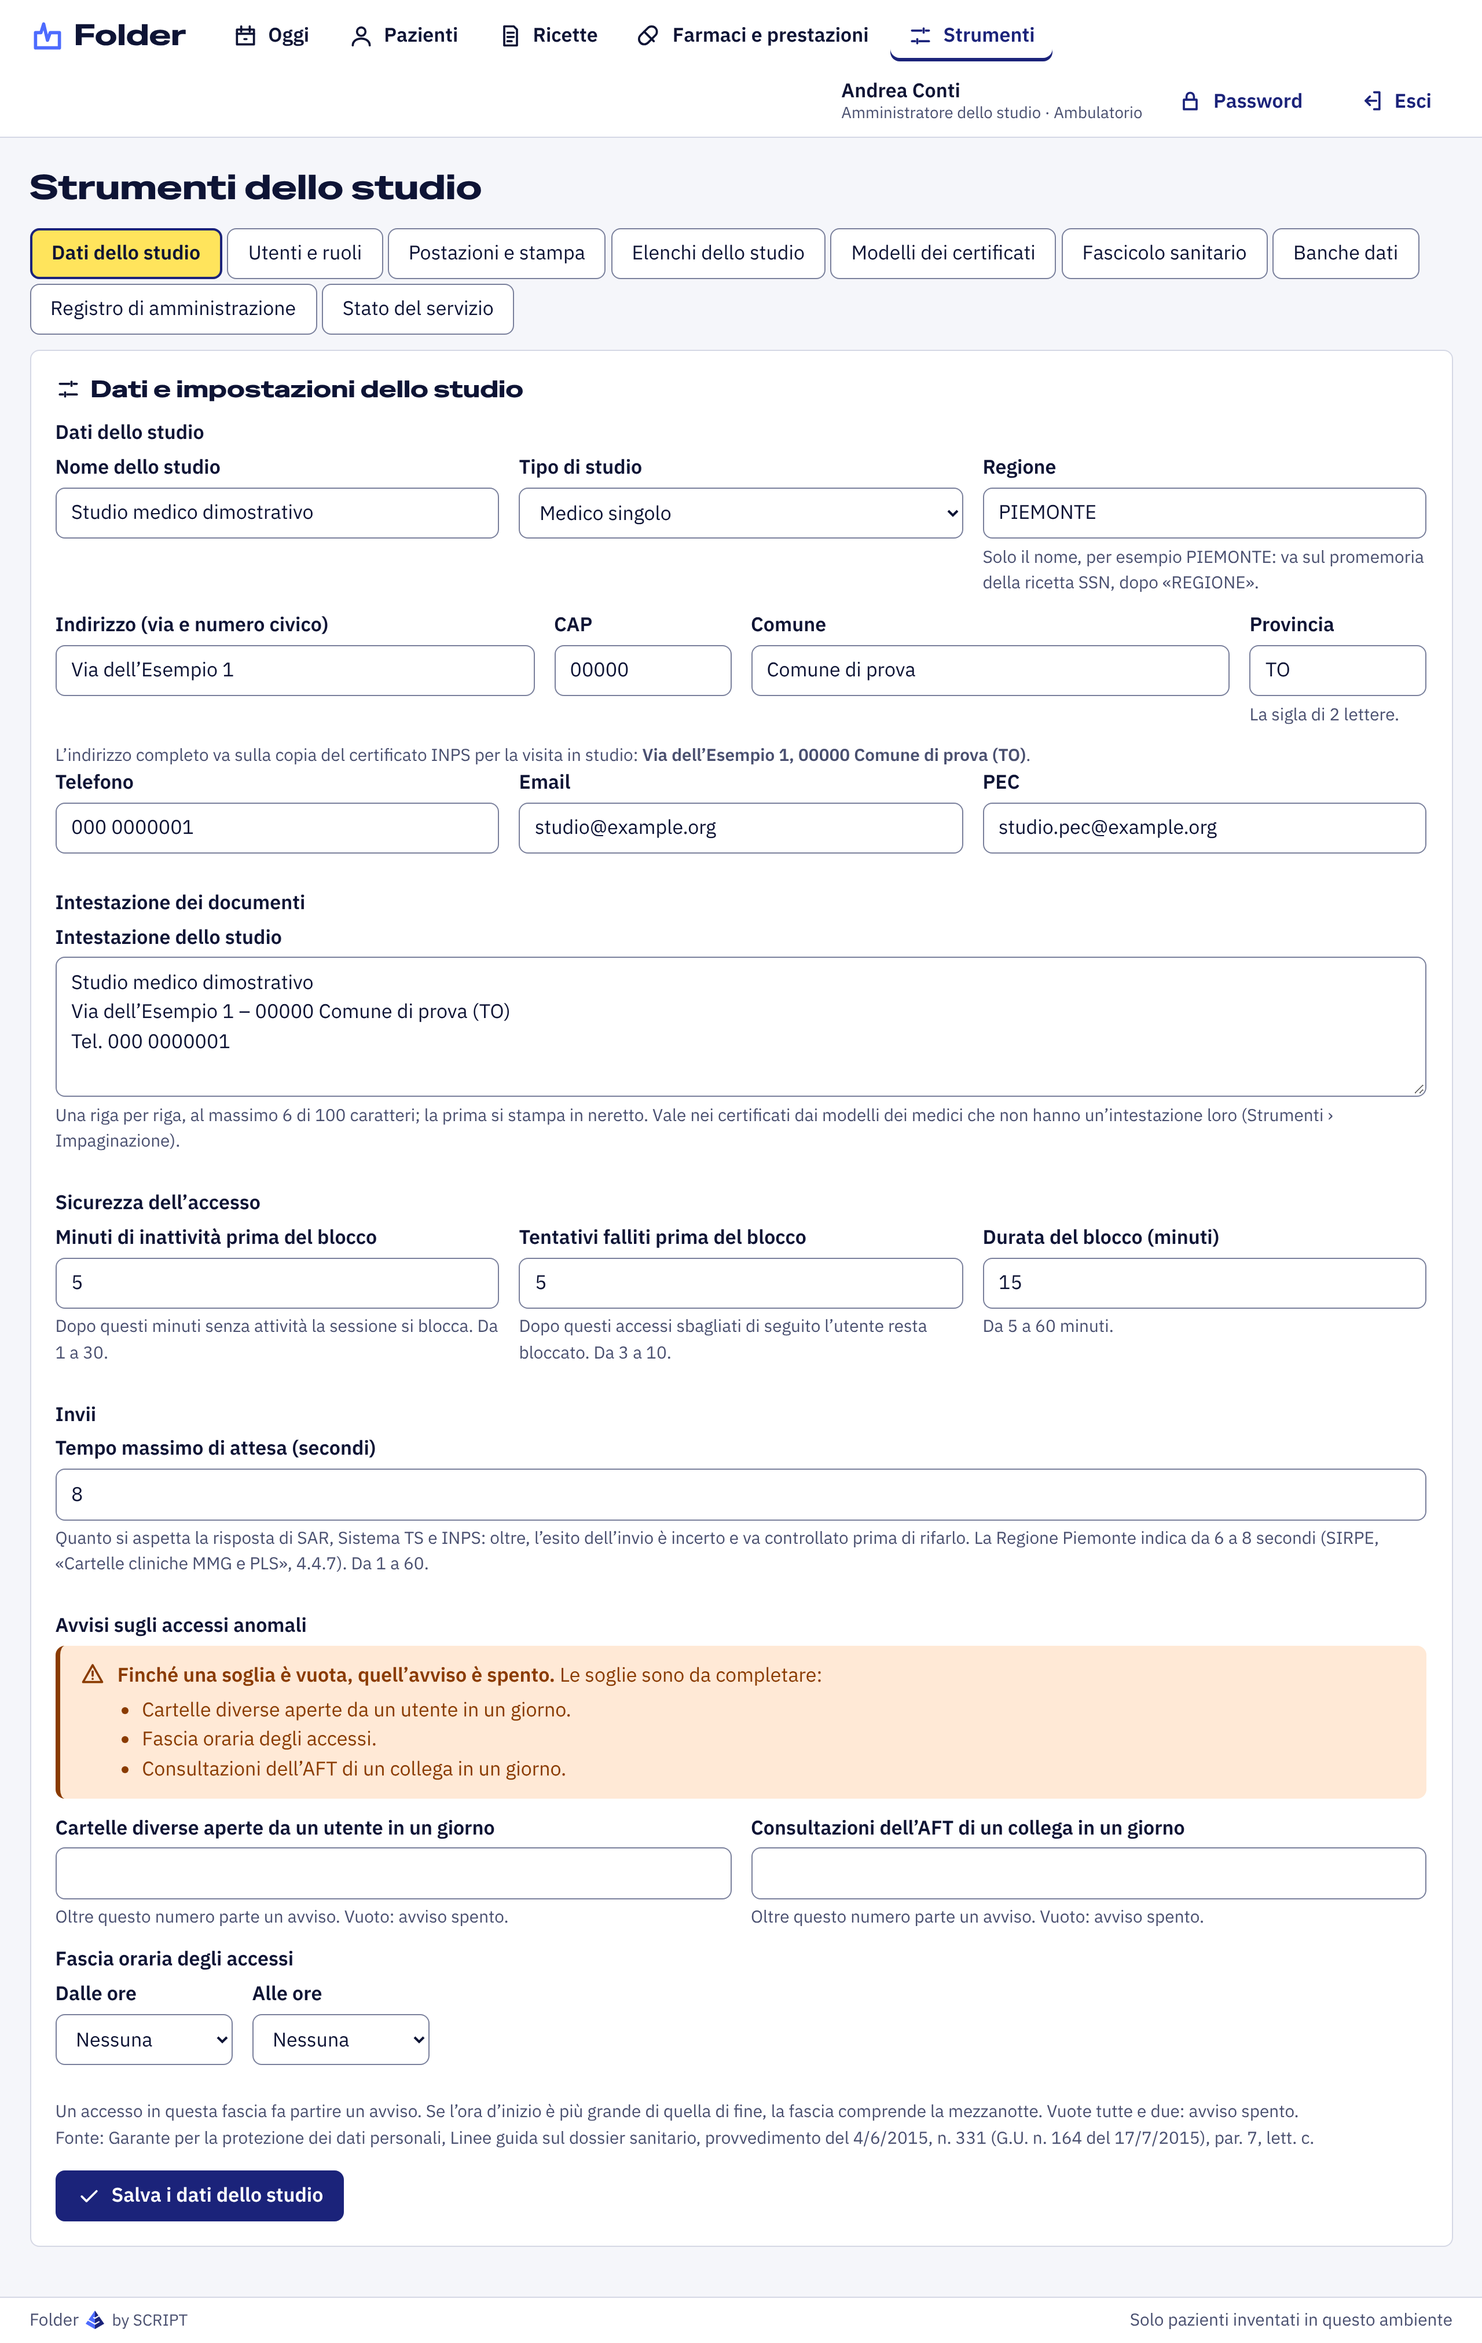
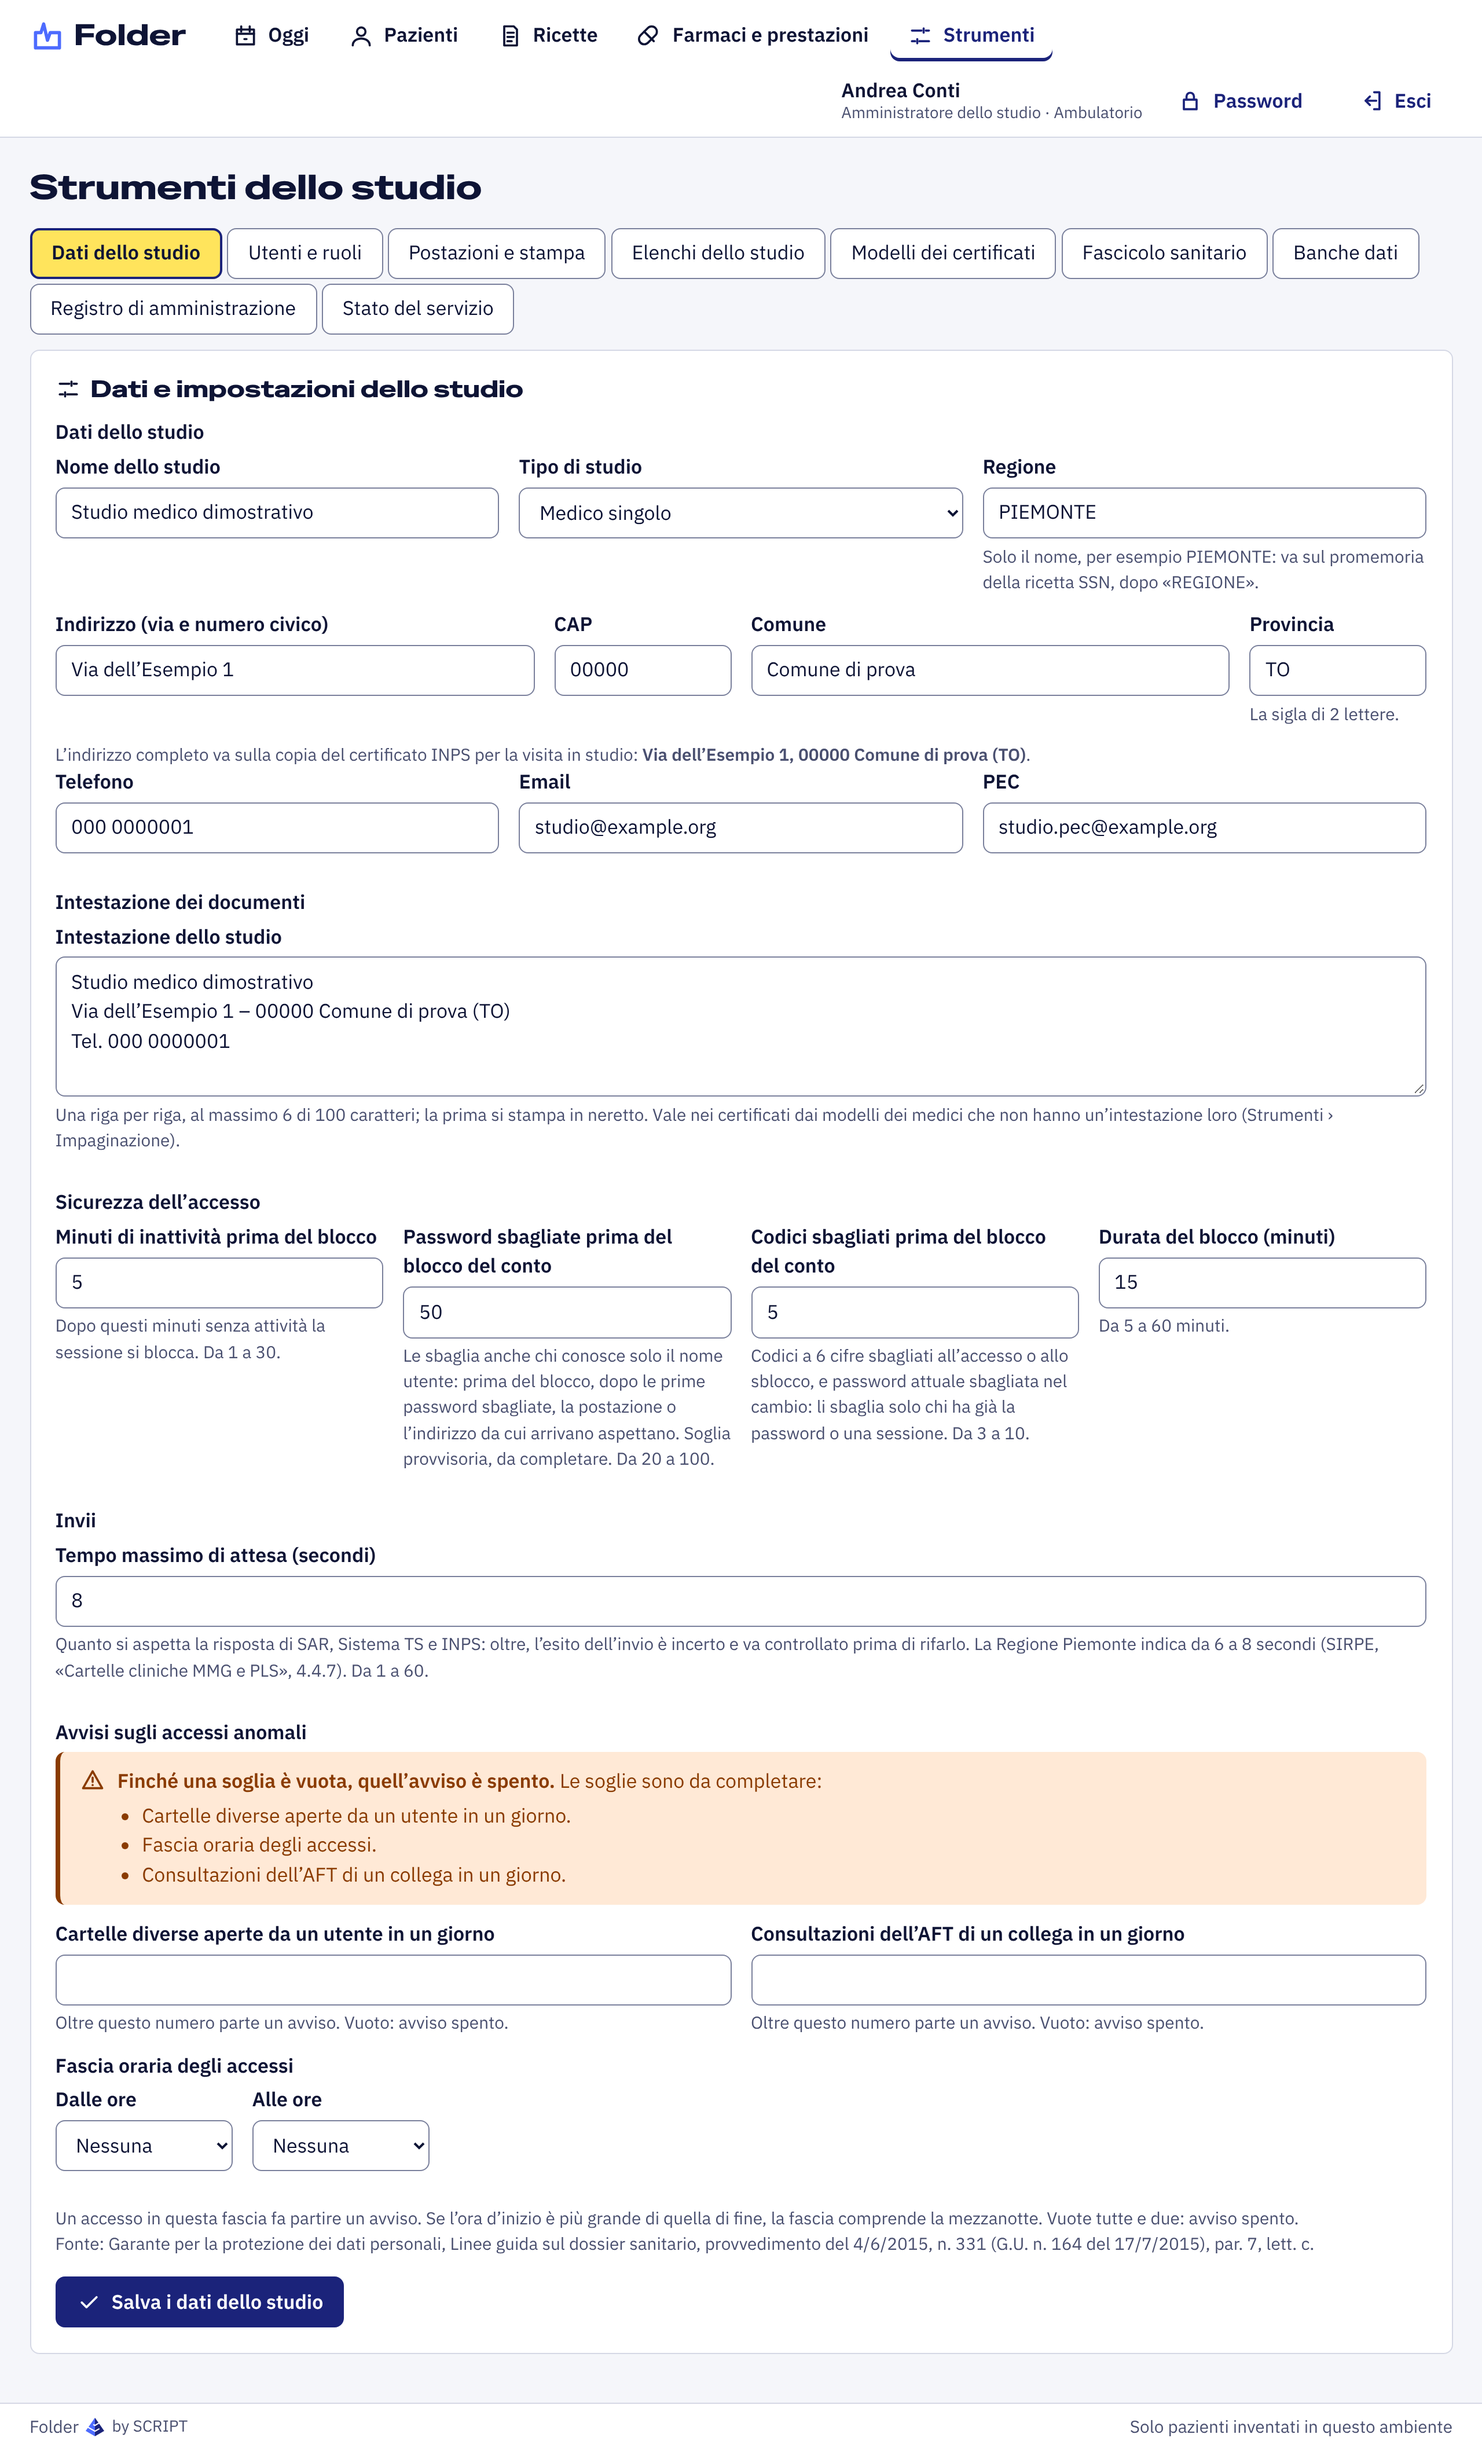
Schermate rifatte per la fermata dopo la tappa 17 (1-59); avvisi dei blocchi in forma neutra
- Quattro schermate nuove: avviso dei blocchi nella cornice, blocchi del
  conto, ripristino con SPID o CIE, password nuova dopo SPID (D188, D189);
  le altre rifatte con i dati dimostrativi, anche quelle dello studio con
  le due soglie dei tentativi.
- «Se non era lui» diventa «Se i tentativi non sono suoi»: il testo non
  presume il genere della persona bloccata.

Claude-Session: https://claude.ai/code/session_01Tv4Yo344qXk13ZKY4SDVSw

diff --git a/apps/api/test/e2e/schermate.ts b/apps/api/test/e2e/schermate.ts
@@ -633,6 +633,50 @@ try {
     await shot(page, '55-utenti-da-confermare', true);
   } else console.log('  (schermate dell’amministratore saltate: manca la sua password)');
 
+  // Tappa 16 (D188): un blocco inventato del conto della segreteria, con indirizzi di
+  // documentazione (RFC 5737); il medico titolare vede l'avviso nella cornice e la pagina.
+  const secretaries = await db.execute<{ id: string; studio_id: string }>(sql`
+    select id, studio_id from app_user where 'secretary' = any(roles) order by username limit 1`);
+  const secretary = secretaries.rows[0];
+  if (secretary) {
+    await db.execute(sql`
+      insert into account_lock
+        (studio_id, user_id, reason, failures, locked_at, locked_until, addresses, workstations)
+      values (${secretary.studio_id}, ${secretary.id}, 'passwords', 50, now(),
+        now() + interval '15 minutes', array['192.0.2.10', '192.0.2.11'], array['pc-fuori'])`);
+    await page.goto(base);
+    await page.getByRole('link', { name: 'Vedi i blocchi' }).waitFor();
+    await shot(page, '56-avviso-dei-blocchi');
+    await page.getByRole('link', { name: 'Vedi i blocchi' }).click();
+    await page.getByRole('heading', { level: 1, name: 'Blocchi del conto' }).waitFor();
+    await shot(page, '57-blocchi-del-conto', true);
+  }
+
+  // Tappa 16 (D189): ripristino con SPID o CIE, senza sessione; la pagina di SPID è il simulatore.
+  const doctors = await db.execute<{ fiscal_code: string }>(sql`
+    select p.fiscal_code from app_user u join doctor_profile p on p.user_id = u.id
+    where u.username = ${user}`);
+  const anonymous = await browser.newContext({
+    viewport: { width: 1280, height: 900 },
+    deviceScaleFactor: 2,
+    locale: 'it-IT',
+  });
+  const anon = await anonymous.newPage();
+  await anon.goto(`${base}/ripristino`);
+  await anon.getByRole('heading', { level: 1, name: 'Ripristino con SPID o CIE' }).waitFor();
+  await shot(anon, '58-ripristino-con-spid-o-cie');
+  const fiscalCode = doctors.rows[0]?.fiscal_code;
+  if (fiscalCode) {
+    await anon.getByLabel('Nome utente').fill(user);
+    await anon.getByLabel('Postazione').fill('Casa');
+    await anon.getByRole('button', { name: 'Entra con SPID o CIE' }).click();
+    await anon.getByLabel('Codice fiscale di chi entra').fill(fiscalCode);
+    await anon.getByRole('button', { name: 'Entra con SPID (simulato)' }).click();
+    await anon.getByText(/Riconosciuto con SPID/).waitFor();
+    await shot(anon, '59-ripristino-password-nuova');
+  }
+  await anonymous.close();
+
   // Più cartelle aperte insieme (D68, D129): una scheda per paziente nella barra sotto il menu,
   // quella attiva in giallo; ogni scheda riporta all'ultima pagina vista di quel paziente.
   const others = await db.execute<{ id: string }>(sql`

diff --git a/apps/web/src/pages/LocksPage.tsx b/apps/web/src/pages/LocksPage.tsx
@@ -28,10 +28,10 @@ function advice(l: Lock): string {
   if (l.motivo === 'codes')
     return l.proprio
       ? 'Chi ha scritto i codici conosceva la tua password, oppure aveva una tua sessione aperta. Se non eri tu, cambia la password e avvisa chi gestisce il servizio.'
-      : 'Chi ha scritto i codici conosceva la password di questo utente, oppure aveva una sua sessione aperta. Se non era lui, va cambiata la password.';
+      : 'Chi ha scritto i codici conosceva la password di questo utente, oppure aveva una sua sessione aperta. Se i tentativi non sono suoi, va cambiata la password.';
   return l.proprio
     ? 'Se non eri tu, qualcuno conosce il tuo nome utente e prova a indovinare la password. Da un’altra postazione si entra comunque appena finisce il blocco.'
-    : 'Se non era lui, qualcuno conosce il suo nome utente e prova a indovinare la password.';
+    : 'Se i tentativi non sono suoi, qualcuno conosce il nome utente e prova a indovinare la password.';
 }
 
 /**

diff --git a/docs/interfaccia.md b/docs/interfaccia.md
@@ -69,6 +69,10 @@ All'accesso si sceglie un utente del seed (`medico`, `segreteria`, `sostituto`);
 | ![](schermate/53-postazioni-e-stampa.png)                       | Postazioni e preferenze di stampa per documento, per lo studio e per postazione (D166, D180)                                                                                                                                                                                                                            |
 | ![](schermate/54-stato-del-servizio.png)                        | Stato del servizio: collegamenti simulati, sessione, banche dati, ambiente, salvataggi (D170)                                                                                                                                                                                                                           |
 | ![](schermate/55-utenti-da-confermare.png)                      | Utenti da confermare, per il medico titolare: chi l'amministratore crea con i dati dei pazienti aspetta la sua conferma, con chi l'ha chiesta e quando; la password temporanea la riceve il titolare, una volta sola (D179)                                                                                             |
+| ![](schermate/56-avviso-dei-blocchi.png)                        | Avviso nella cornice: un blocco del conto da vedere, per l'utente bloccato e per i medici titolari dello studio (D188)                                                                                                                                                                                                  |
+| ![](schermate/57-blocchi-del-conto.png)                         | Blocchi del conto: chi, quando, fino a quando, dopo quanti tentativi, da quali indirizzi e postazioni, che cosa può voler dire; «Segna come visti» vale per chi li segna (D188)                                                                                                                                         |
+| ![](schermate/58-ripristino-con-spid-o-cie.png)                 | Ripristino con SPID o CIE, senza sessione: nome utente e postazione, poi SPID o CIE (oggi simulati; in produzione spento finché non c'è il collegamento vero, D189)                                                                                                                                                     |
+| ![](schermate/59-ripristino-password-nuova.png)                 | Dopo SPID o CIE, se il codice fiscale è quello dell'utente: la password nuova, e se serve il secondo fattore da riattivare (D189)                                                                                                                                                                                       |
 
 Le schermate si rigenerano con `test/e2e/schermate.ts` (istruzioni in testa al file), su un database appena preparato con il seed.
 
